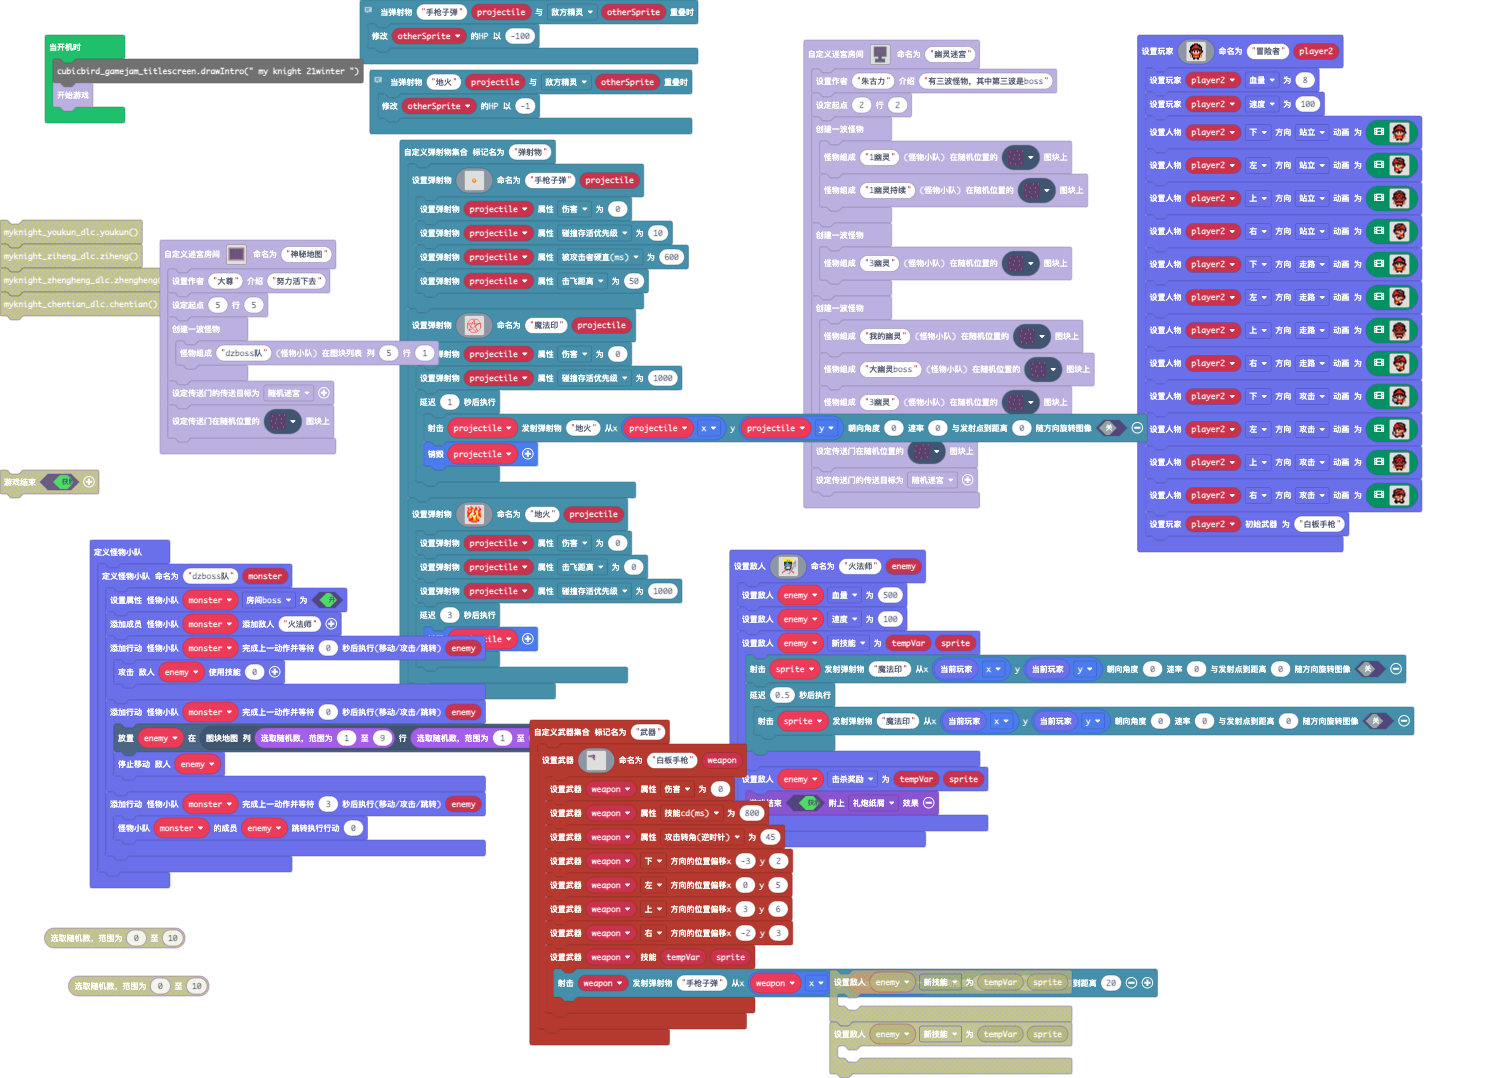
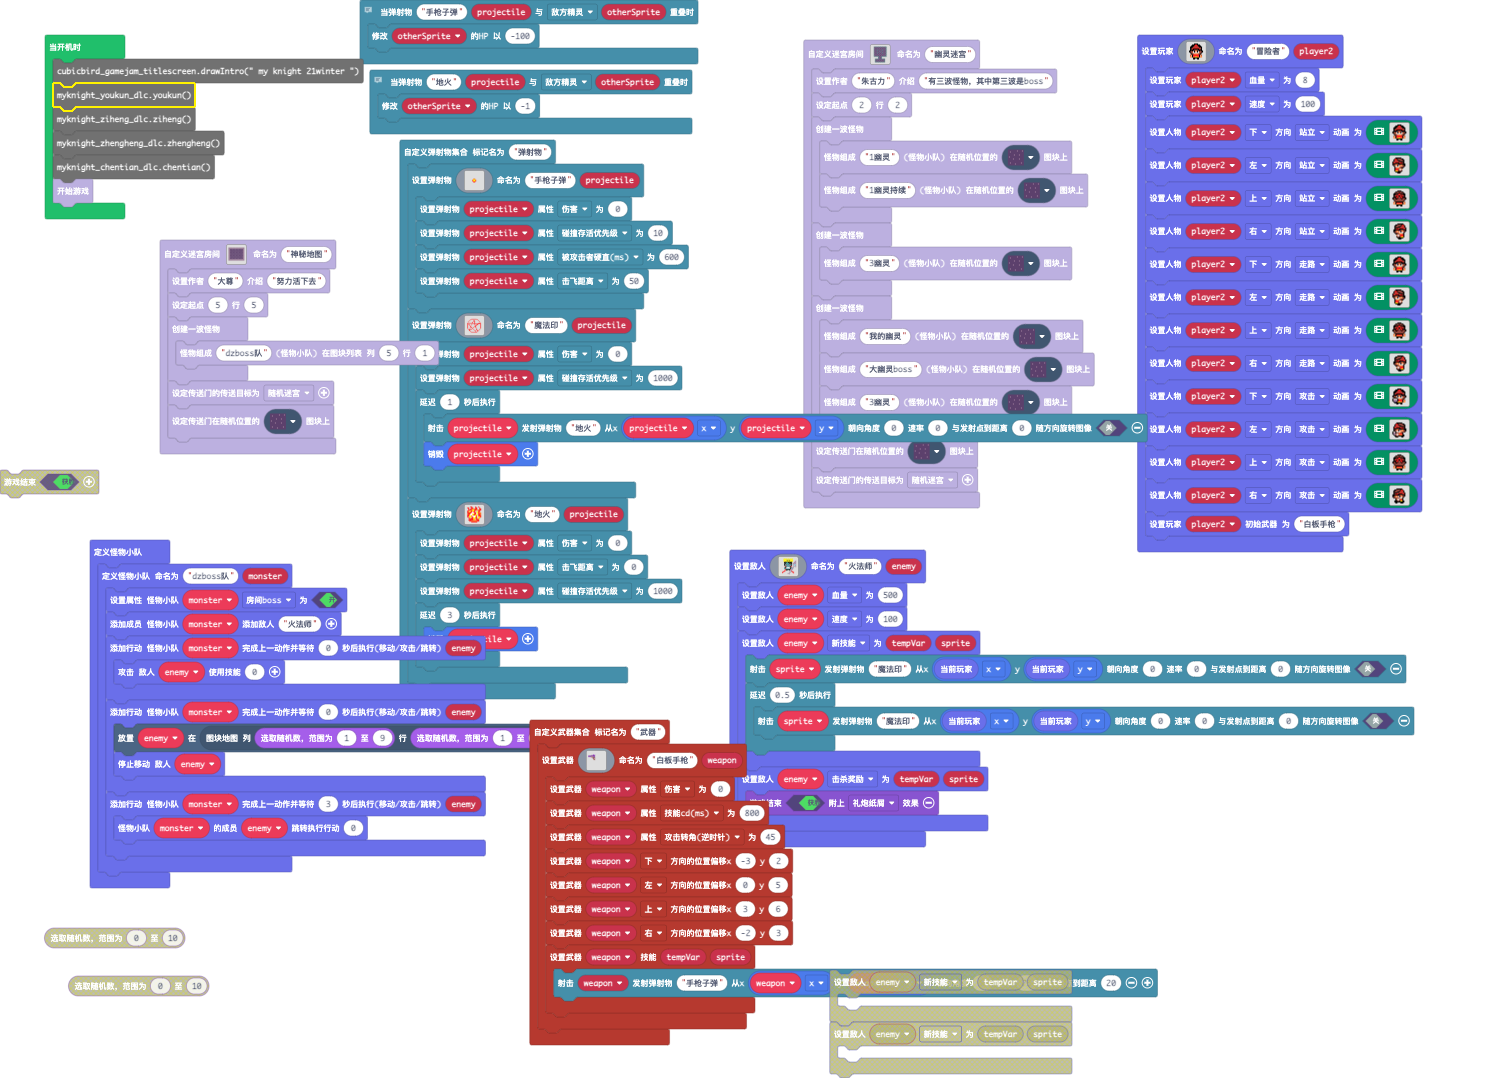
更新 main.blocks, main.ts

Changed region(s): [[0.0, 0.0612, 0.1542, 0.3061]]

diff --git a/main.ts b/main.ts
@@ -773,6 +773,10 @@ Enemy.setMonsters0(function () {
     })
 })
 cubicbird_gamejam_titlescreen.drawIntro(" my knight 21winter ")
+myknight_youkun_dlc.youkun()
+myknight_ziheng_dlc.ziheng()
+myknight_zhengheng_dlc.zhengheng()
+myknight_chentian_dlc.chentian()
 playground_helpers.startPlayground()
 // otherSprite.say("不痛", 500)
 // Bullet.bulletOwn(projectile).say("打不动", 500)
